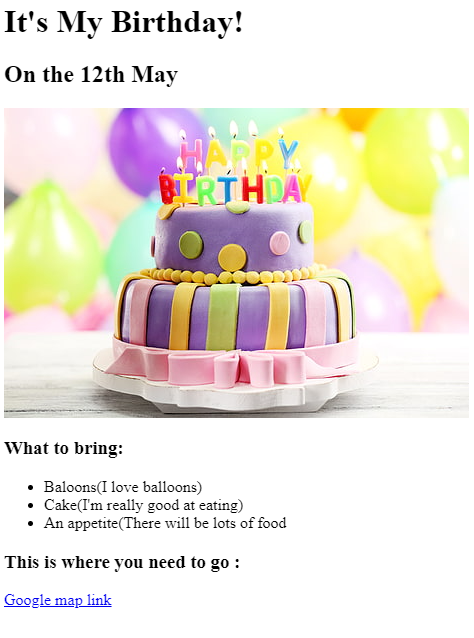
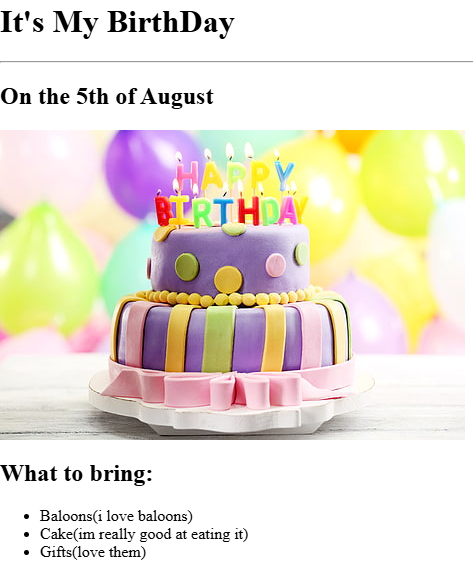
Add files via upload

diff --git a/public/about.html b/public/about.html
@@ -1,20 +1,6 @@
 <h1>About Me</h1>
-<p>Lorem ipsum dolor sit amet, consectetur adipiscing elit. Pellentesque sem tellus, sagittis non odio nec, interdum
-  elementum lacus. Ut ac justo eget risus sollicitudin fringilla sed ut leo. Ut condimentum elit nec fermentum lobortis.
-  Quisque tincidunt quam nec tincidunt ullamcorper. Integer vitae pretium justo. In placerat volutpat pellentesque.
-  Etiam
-  gravida quam vitae odio pulvinar imperdiet. Vivamus venenatis gravida purus sit amet aliquet. Ut in nibh sed quam
-  laoreet lacinia. Cras cursus ut dui vitae posuere. Vivamus volutpat urna vitae odio fringilla placerat. Nulla vel
-  rhoncus sapien. Phasellus at interdum enim.</p>
+<p>I was born on August 5th, 1980, in Athens, the youngest of three children. My childhood was a time of simple joys — playing soccer with a soda can, chasing a plastic ball that the wind could carry away, or on lucky days, kicking a real football. We built wooden swords to play war with friends, made slingshots, crafted our own kites, and turned every street corner into a new adventure powered by imagination.</p>
 
-<p>Curabitur elementum sagittis mollis. In porta nec quam ut semper. Nulla volutpat neque quis lacus mattis eleifend.
-  Phasellus et congue odio. Mauris tristique, nisl quis porttitor porttitor, tortor ante mattis ex, at dictum tortor
-  dolor
-  ut sem. Nullam nec libero non ex porta vulputate a eu sapien. In nec bibendum mauris. Fusce iaculis lectus vel magna
-  laoreet gravida.</p>
+<p>At 14, I took my first job — not out of necessity, but because I loved the freedom of earning my own money. From that day on, I never stopped working. Today, I’m married to the woman of my dreams and the proud father of two wonderful children.</p>
 
-<p>Donec euismod vestibulum arcu, a blandit metus mattis ultrices. Integer quis hendrerit justo. Maecenas sed tempor mi.
-  Fusce egestas urna leo. Mauris viverra sem sed libero egestas, volutpat aliquet magna porta. Quisque id diam sed ipsum
-  interdum sollicitudin id quis augue. Donec congue nisl nec massa ornare imperdiet quis quis odio. Etiam ut volutpat
-  nisl. Vestibulum hendrerit justo nibh, eget consequat magna fermentum finibus. Pellentesque et urna fringilla, rutrum
-  neque in, varius leo. Vestibulum efficitur id massa eget pellentesque.</p>
+<p>Ever since I was young, I’ve had a passion for games and computers. But because I learned early to work hard and be independent, I never had the chance to formally study the field I truly loved. Now, with more life experience and a clear vision, I’ve decided it’s time to finally take the next step toward the dream I’ve carried with me since childhood.</p>

diff --git a/index.html b/index.html
@@ -1,23 +1,28 @@
-<!DOCTYPE html>
-<html lang="en">
-<head>
-    <meta charset="UTF-8">
-    <title>Emmichailidis</title>
-     
-</head>
 
-<body>
+ <!DOCTYPE html>
+ <html lang="en">
+ <head>
+    <meta charset="UTF-8">
+    <meta name="viewport" content="width=device-width, initial-scale=1.0">
+    <title>This Me</title>
+ </head>
+ <body>
     <h1>Manos Michailidis Portfolio</h1>
-    <h2>I am a wanna be Web Developer!</h2>
-    <hr/>
- <h3><a href="./public/manos movie ranking.html"> Movie Ranking Project</a></h3>
- <img src="./assets/images/movie-ranking.png" height="200" alt="Movie Ranking Project Preview">
- <h3> <a href="./public/manos birthday.html" >Its my birthday</a></h3>
- <img src="./assets/images/birthday-invite.png" height="200" alt="birthday cake preview">
- <hr />
- <a href="./public/contact.html"> Contact Me </a>
- <a href="./public/about.html"> About me </a>
-</body>
-</html>
+    <h2>I wanna be a web developer</h2>
+    <hr>
+    <h2><a href="./public/movie-ranking.html">This is my movie ranking</a></h2>
+    <img src="./assets/images/movie-ranking.png" alt="list of movies" height="200">
+<h2><a href="./public/birthday-invite.html">This is my Birthday</a></h2>
+<img src="./assets/images/birthday-invite.png" alt="This is my Birthday invite" height="200">
+<hr>
+<a href="./public/contact.html">Contact me</a><br>
+<a href="./public/about.html">About me</a>
+
+ </body>
+ </html>
+
+
+
+
 
 

diff --git a/public/birthday-invite.html b/public/birthday-invite.html
@@ -1,18 +1,15 @@
-<!-- This is one possible solution -->
-<h1>It's My Birthday!</h1>
-<h2>On the 12th May</h2>
 
-<img src="https://raw.githubusercontent.com/appbrewery/webdev/main/birthday-cake3.4.jpeg"
-  alt="purple birthday cake with candles" />
 
-<h3>What to bring:</h3>
+
+<h1>It's My BirthDay</h1>
+<hr>
+<h2>On the 5th of August</h2>
+<img src="https://raw.githubusercontent.com/appbrewery/webdev/main/birthday-cake3.4.jpeg" alt="a picture of a birtday cake">
+<h2>What to bring:</h2>
 <ul>
-  <li>Baloons (I love baloons)</li>
-  <li>Cake (I'm really good at eating)</li>
-  <li>An appetite (There will be lots of food)</li>
+    <li>Baloons(i love baloons)</li>
+    <li>Cake(im really good at eating it)</li>
+    <li>Gifts(love them)</li>
 </ul>
-
-<h3>This is where you need to go:</h3>
-<a
-  href="https://www.google.com/maps/@35.7040744,139.5577317,3a,75y,289.6h,87.01t,0.72r/data=!3m6!1e1!3m4!1sgT28ssf0BB2LxZ63JNcL1w!2e0!7i13312!8i6656">Google
-  map link</a>
+<h1>This is where you need to go:</h1>
+<a href="https://www.google.com/maps/@35.7040744,139.5577317,3a,75y,289.6h,87.01t,0.72r/data=!3m6!1e1!3m4!1sgT28ssf0BB2LxZ63JNcL1w!2e0!7i13312!8i6656">My Location</a>

diff --git a/public/movie-ranking.html b/public/movie-ranking.html
@@ -1,9 +1,10 @@
-<h1>The Best Movies According to Angela</h1>
-<h2>My top 3 movies of all-time.</h2>
-<hr />
-<h3>Spirited Away</h3>
-<p>This is my favourite anime. I love the beautiful images.</p>
-<h3>Ex Machina</h3>
-<p>Really cool sci-fi movie.</p>
-<h3>Drive</h3>
-<p>Super beautiful film. Really artistic.</p>
+
+ <h1>The Best Movies According to Manos</h1>
+<h2>The Top 3 Movies of all time</h2>
+<hr>
+<h2>The Godfather trilogy</h2>
+<p>For all different reasons</p>
+<h2>Strangers Things</h2>
+<p>Nostalgic 1980s pop culture references, strong character development, and atmospheric setting.</p>
+<h2>Berserk</h2>
+<p>Berserk is by far the best anime that I have ever seen.</p>

diff --git a/public/contact.html b/public/contact.html
@@ -1,9 +1,9 @@
 <h1>Contact Me</h1>
 <p>Tel: +123456789</p>
-<p>Email: me@gmail.com</p>
+<p>Email: Michailidismanos@gmail.com</p>
 <p>Address:</p>
 <p>
-  123 North Street<br />
-  Some City<br />
-  Some Country <br />
+
+  Chalkis<br />
+  Grece <br />
 </p>
